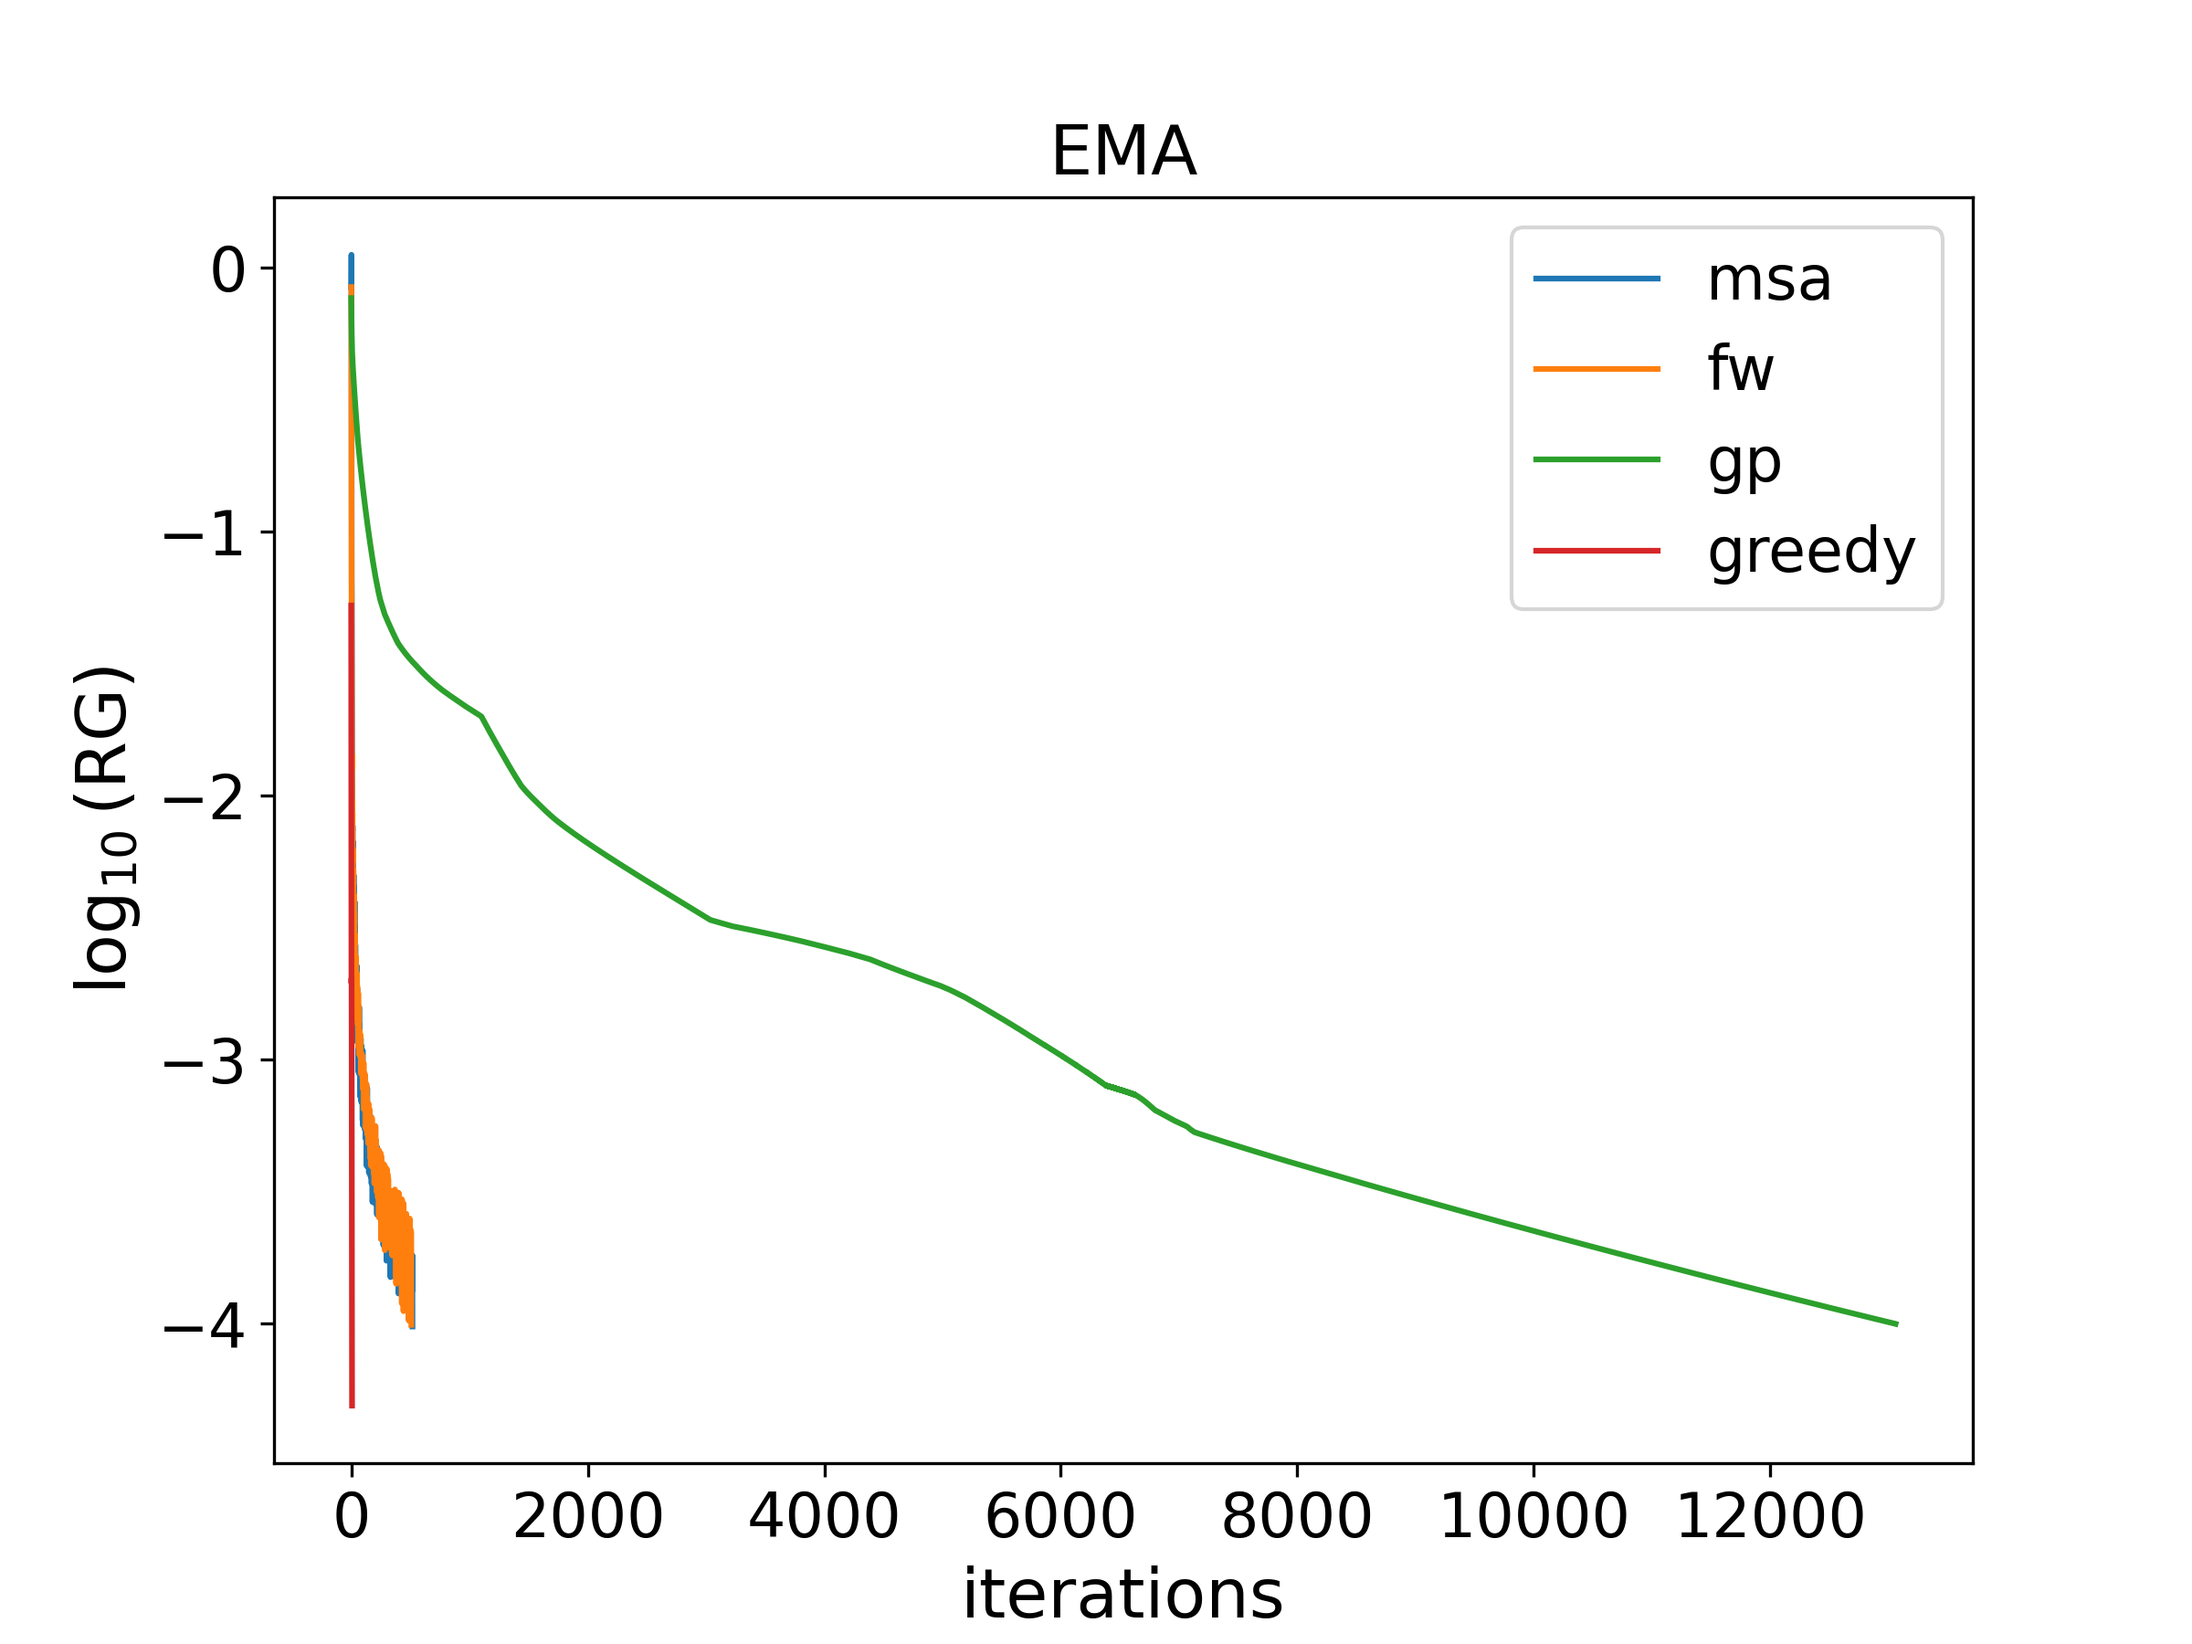
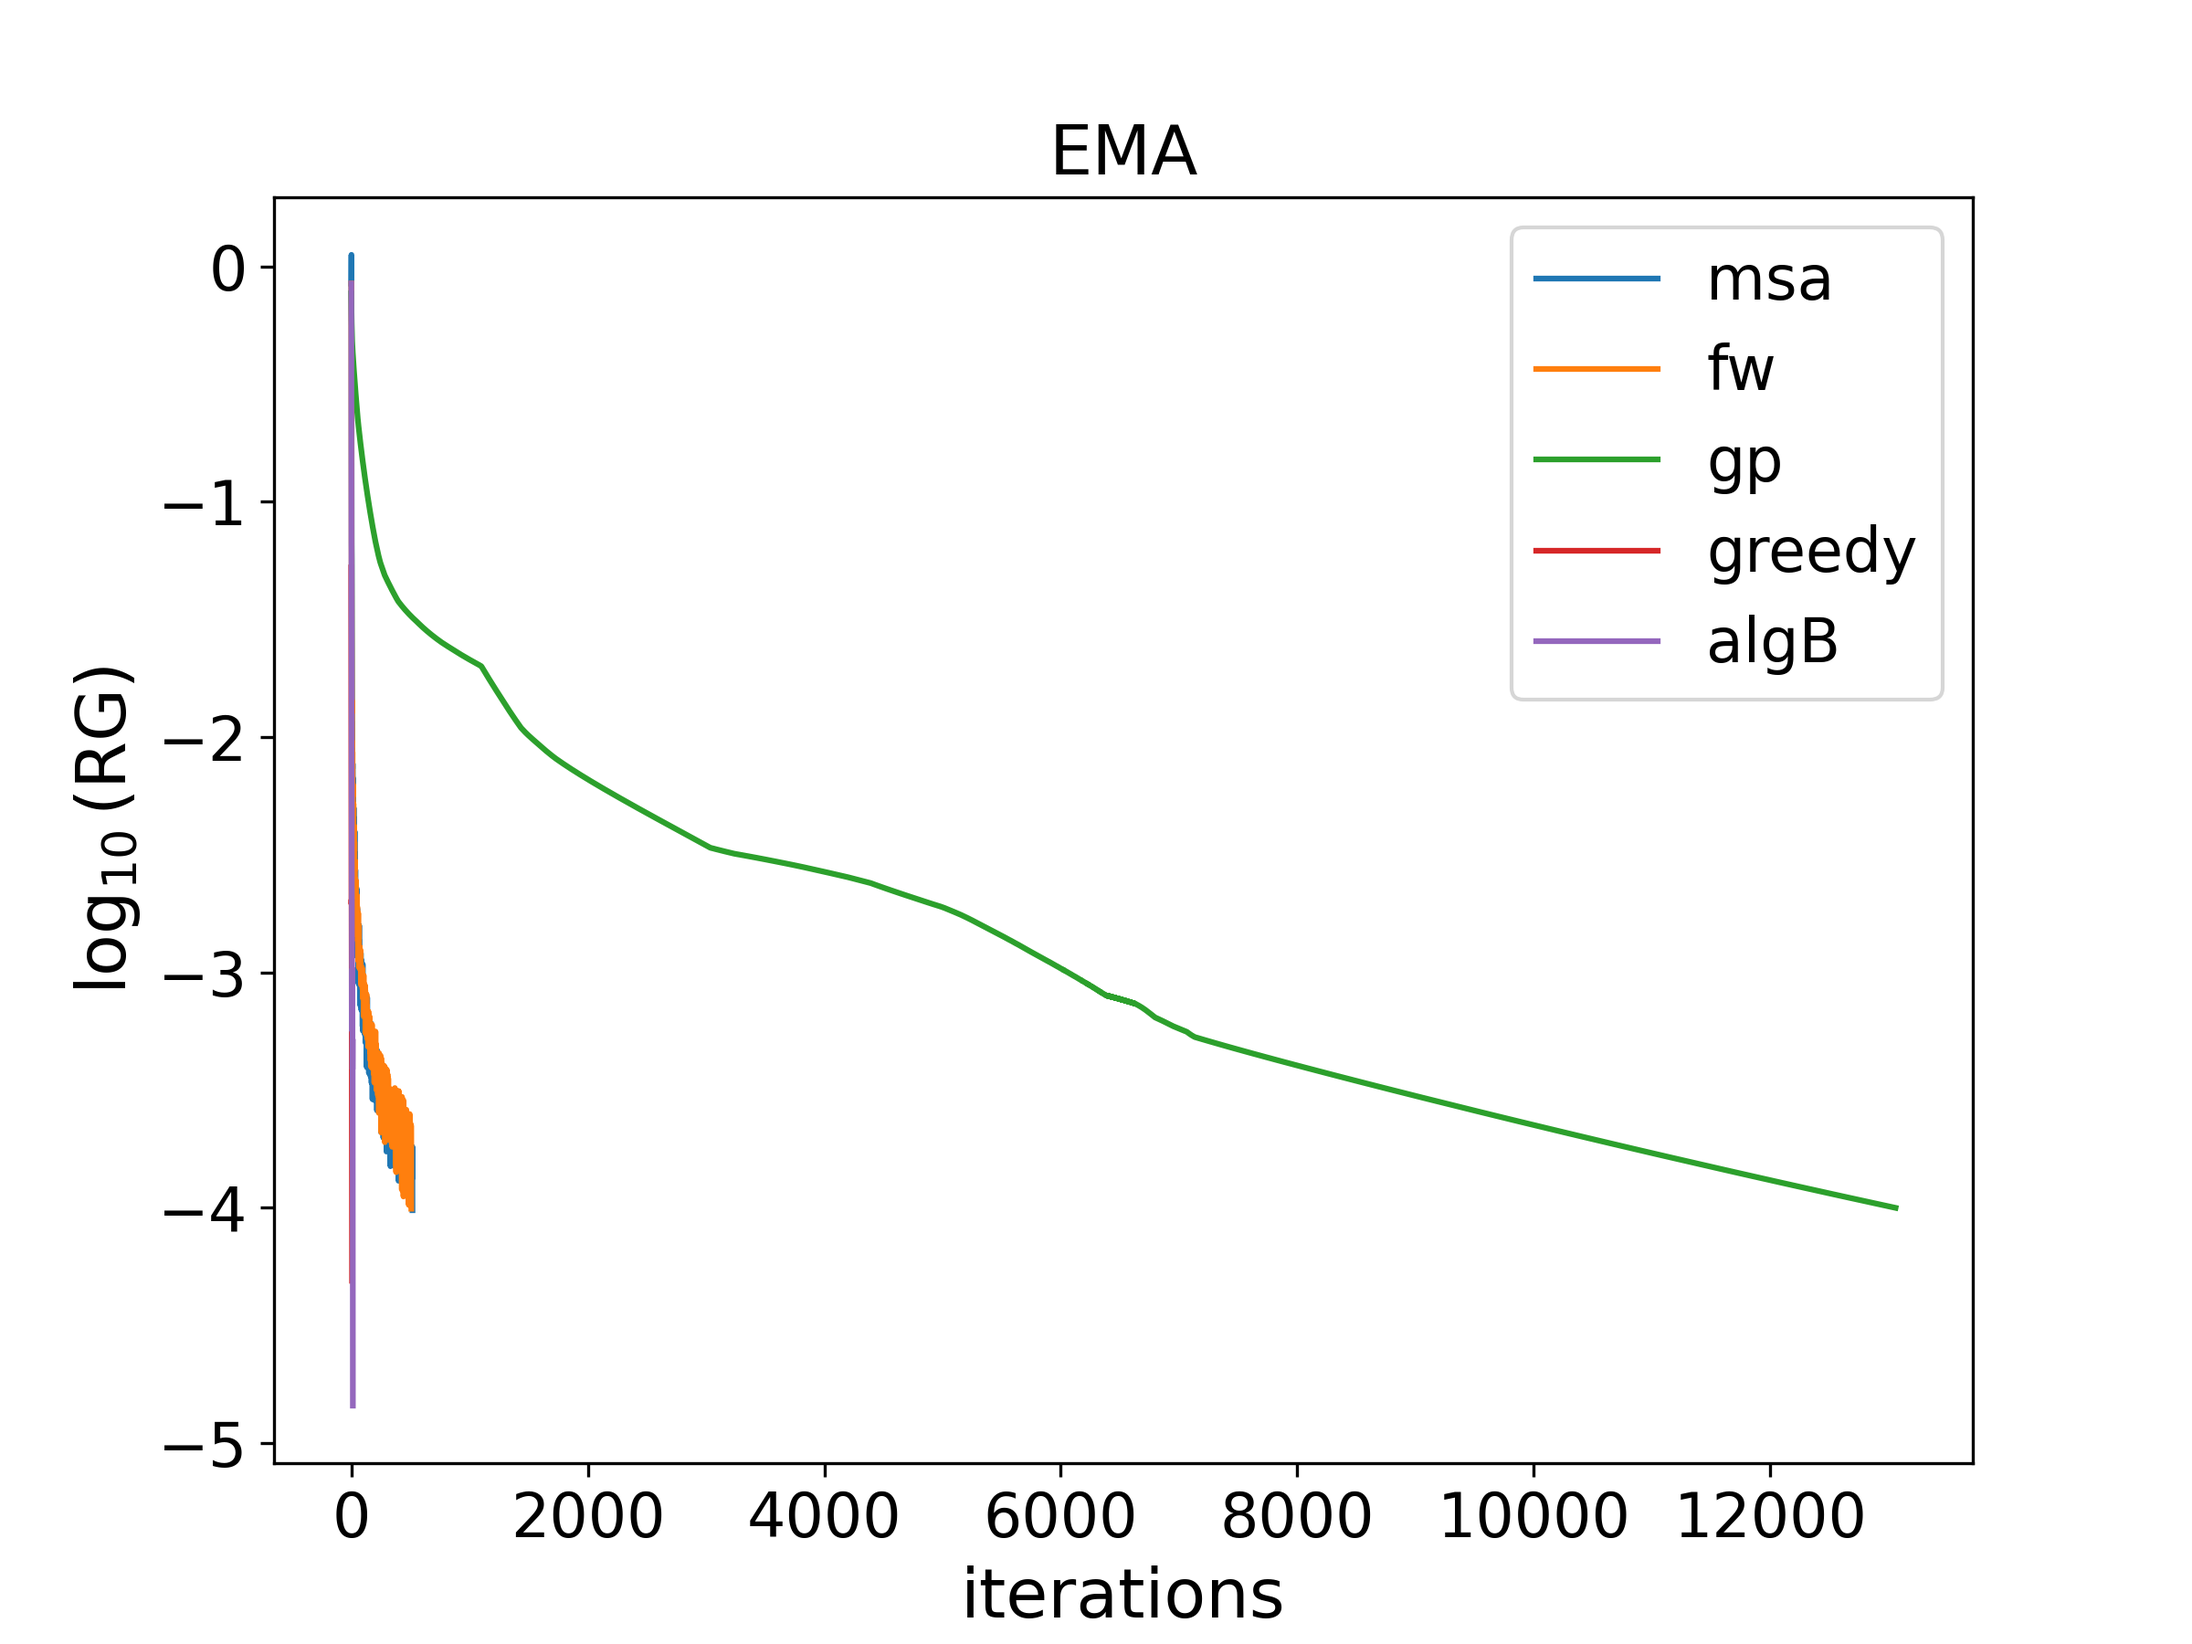
added algorithm B results

diff --git a/experiments/result-table.tex b/experiments/result-table.tex
@@ -11,25 +11,35 @@ Network	&	Algorithm	&	Iterations	&	RG	& Time (s)\\
 	&	FW	&	53	&	$9.03\times 10^{-5}$	&	144.95\\
 	&	GP	&	2840	&	$9.99\times 10^{-5}$	&	15739.55\\
 	&	Greedy	&	5	&	$6.65\times 10^{-5}$	&	39.16\\
+	&	Algorithm B	& 6	&	$3.08\times 10^{-5}$	&	0.20\\	
 	\hline
 \multirow{4}{*}{Chicago Sketch}
 	&	MSA		&	670	&	$9.97\times 10^{-5}$	&	$>8$ hours\\
 	&	FW		&	93	&	$9.21\times 10^{-5}$	&	$>8$ hours\\
 	&	GP		&	80	&	$4.17\times 10^{-3}$	&	$>$8 hours\\
 	&	Greedy  &	8	&	$9.45\times 10^{-5}$	&	10,105.92\\
+	&	Algorithm B	&	11	&	$9.18\times 10^{-5}$	&	14.86\\
 	\hline
 \multirow{4}{*}{Eastern Massachusetts}
 	&	MSA		&	518	&	$9.77\times 10^{-5}$	&	45.41\\
 	&	FW		&	508	&	$9.91\times 10^{-5}$	&	99.38\\
 	&	GP		&	13058	&	$9.99\times 10^{-5}$	&	5522.84\\
 	&	Greedy	&	7		&	$4.90\times 10^{-5}$	&	3.90\\
+	&	Algorithm B & 14	&	$1.44\times 10^{-5}$	&	0.20\\
 	\hline
 \multirow{4}{*}{Sioux Falls}
 	&	MSA		&	7980	&	$9.96\times 10^{-5}$	&	40.72\\
 	&	FW		&	1013	&	$9.99\times 10^{-5}$	&	8.47\\
 	&	GP		&	1140	&	$9.99\times 10^{-5}$	&	22.58\\
 	&	Greedy	&	13		&	$9.20\times 10^{-5}$	&	0.41\\
+	&	Algorithm B	&	16	&	$7.38\times 10^{-5}$	&	0.05\\
 \hline
-
+\multirow{4}{*}{Chicago Regional}
+	& MSA	&	4	&	$1.10$	&	172837\\
+	& FW	&	4	&	$4.10\times 10^{-1}$	&	181181\\
+	& GP	&	1	&	$3.81\times 10^{-1}$	&	180940\\
+	& Greedy	&	1	&	$6.97\times 10^{-2}$	&	183015\\
+	& Algorithm B	&	15	&	$6.44\times 10^{-5}$	&	4259\\
+\hline
 \end{tabular}
 \end{table}
